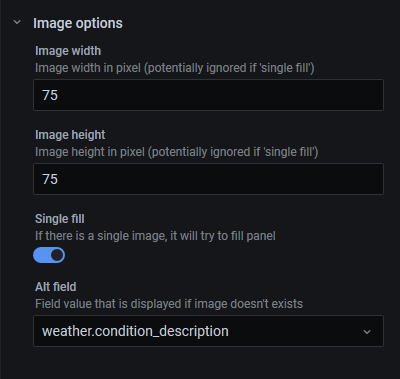
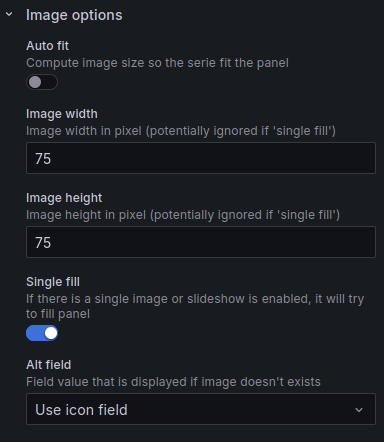
feat: Auto fit serie (#99)
Compute image's height and width so the serie fit the panel.

Closes #96

Changed region(s): [[0.0625, 0.2322, 0.9688, 0.9578], [0.0625, 0.0, 0.8125, 0.2032], [0.9062, 0.8707, 0.9375, 0.9288]]

diff --git a/src/module.ts b/src/module.ts
@@ -87,11 +87,19 @@ export const plugin = new PanelPlugin<DynamicImageOptions>(DynamicImagePanel).se
       description: "Fallback image to display if URL doesn't work. Leave empty to disable fallback.",
       category: ['URL'],
     })
+    .addBooleanSwitch({
+      path: 'autofit',
+      name: 'Auto fit',
+      description: 'Compute image size so the serie fit the panel',
+      defaultValue: false,
+      category: ['Image options'],
+    })
     .addTextInput({
       path: 'width',
       name: 'Image width',
       description: "Image width in pixel (potentially ignored if 'single fill')",
       defaultValue: '75',
+      showIf: (currentConfig) => !currentConfig.autofit,
       category: ['Image options'],
     })
     .addTextInput({
@@ -99,6 +107,28 @@ export const plugin = new PanelPlugin<DynamicImageOptions>(DynamicImagePanel).se
       name: 'Image height',
       description: "Image height in pixel (potentially ignored if 'single fill')",
       defaultValue: '75',
+      showIf: (currentConfig) => !currentConfig.autofit,
+      category: ['Image options'],
+    })
+    .addBooleanSwitch({
+      path: 'singleFill',
+      name: 'Single fill',
+      description: 'If there is a single image or slideshow is enabled, it will try to fill panel',
+      defaultValue: true,
+      category: ['Image options'],
+    })
+    .addSelect({
+      path: 'alt_field',
+      name: 'Alt field',
+      description: "Field value that is displayed if image doesn't exists",
+      settings: {
+        allowCustomValue: false,
+        options: [],
+        getOptions: async (context: FieldOverrideContext) => {
+          return Promise.resolve(listFields(context, { value: '', label: 'Use icon field' }));
+        },
+      },
+      defaultValue: '',
       category: ['Image options'],
     })
     .addColorPicker({
@@ -177,27 +207,6 @@ export const plugin = new PanelPlugin<DynamicImageOptions>(DynamicImagePanel).se
       defaultValue: true,
       showIf: (currentConfig) => currentConfig.slideshow.enable,
       category: ['Slideshow'],
-    })
-    .addBooleanSwitch({
-      path: 'singleFill',
-      name: 'Single fill',
-      description: 'If there is a single image or slideshow is enabled, it will try to fill panel',
-      defaultValue: true,
-      category: ['Image options'],
-    })
-    .addSelect({
-      path: 'alt_field',
-      name: 'Alt field',
-      description: "Field value that is displayed if image doesn't exists",
-      settings: {
-        allowCustomValue: false,
-        options: [],
-        getOptions: async (context: FieldOverrideContext) => {
-          return Promise.resolve(listFields(context, { value: '', label: 'Use icon field' }));
-        },
-      },
-      defaultValue: '',
-      category: ['Image options'],
     })
     .addBooleanSwitch({
       path: 'tooltip',

diff --git a/src/components/DynamicImagePanel.tsx b/src/components/DynamicImagePanel.tsx
@@ -89,7 +89,7 @@ function intoString(data: number | string): string {
 }
 
 export function DynamicImagePanel(props: Props) {
-  const { options, data, id } = props;
+  const { options, data, id, height, width } = props;
 
   const [hooverTime, setHooverTime] = useState<number | undefined>();
   const { eventBus, sync } = usePanelContext();
@@ -392,6 +392,30 @@ export function DynamicImagePanel(props: Props) {
   // intoString to maintain compatibility (see comment on intoString)
   let w = Number(props.replaceVariables(intoString(options.width)));
   let h = Number(props.replaceVariables(intoString(options.height)));
+  if (options.autofit) {
+    let image_number = values.length;
+    let ratio = width / height;
+
+    console.info("image number = " + image_number);
+    console.info("ratio = " + ratio);
+
+    // We have width / height = R
+    // If x is the number of column and y the number of row, we need :
+    // x / y = R and x * y = N (image number)
+    //
+    // Then : x = sqrt(N * R)
+    let x = Math.ceil(Math.sqrt(image_number * ratio));
+    let y = Math.ceil(image_number / x)
+
+    console.info(x + " columns");
+    console.info(y + " rows");
+
+    w = Math.floor(width/x) - 10;
+    h = Math.floor(height/y) - 10;
+
+    console.info("width = " + width + ", w = " + w);
+    console.info("height = " + height + ", h = " + h);
+  }
 
   const children = values.map((value) => {
     const overlay: OverlayProps = {

diff --git a/src/types.ts b/src/types.ts
@@ -98,6 +98,7 @@ export interface DynamicImageOptions {
   suffix?: string;
   fallback?: string;
   singleFill: boolean;
+  autofit: boolean;
   width: string;
   height: string;
   icon_field: string;

diff --git a/README.md b/README.md
@@ -44,6 +44,8 @@ Options for building image URL :
 
 Options that allow to choose how the image will be displayed :
 
+* Auto fit : compute the width and height of image in order that the serie fit in the entire panel. Enabling this
+  option will disable `Image width` and `Image height`.
 * Image width : the width of the image. This option support variable (beware that it needs to be a number)
 * Image height : the height of the image. This option support variable (beware that it needs to be a number)
 * Single fill : if the query have a unique result, allow to fill the panel instead of using width and height above
